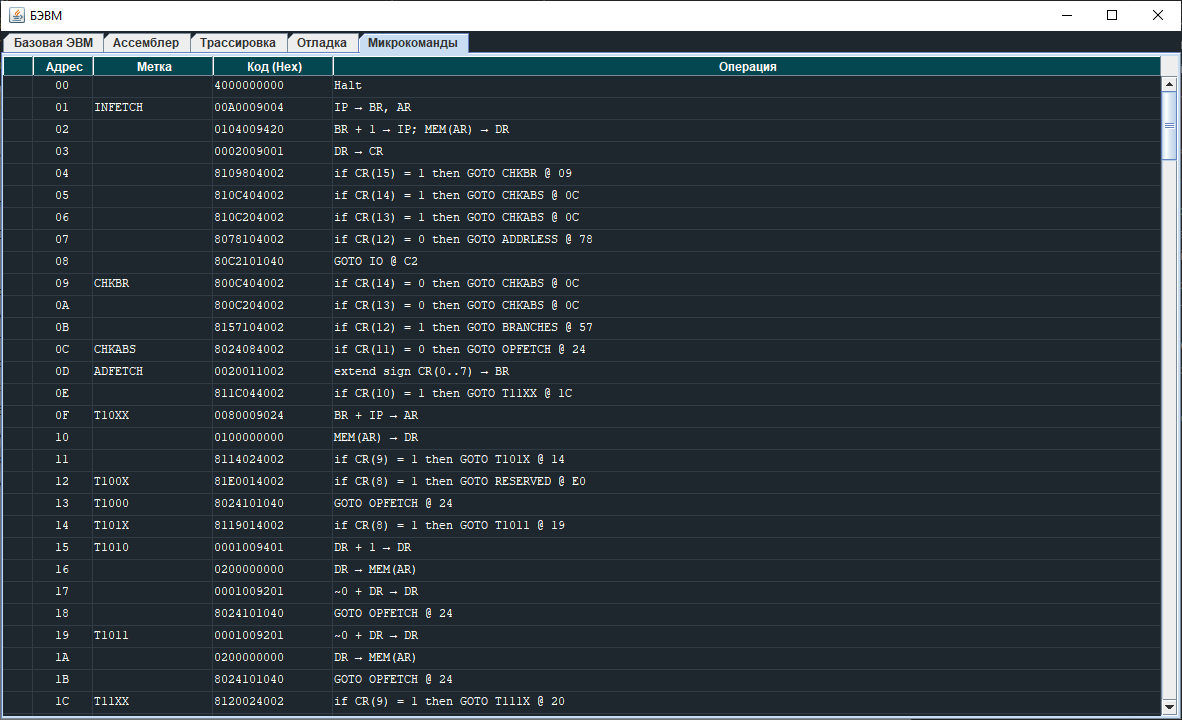
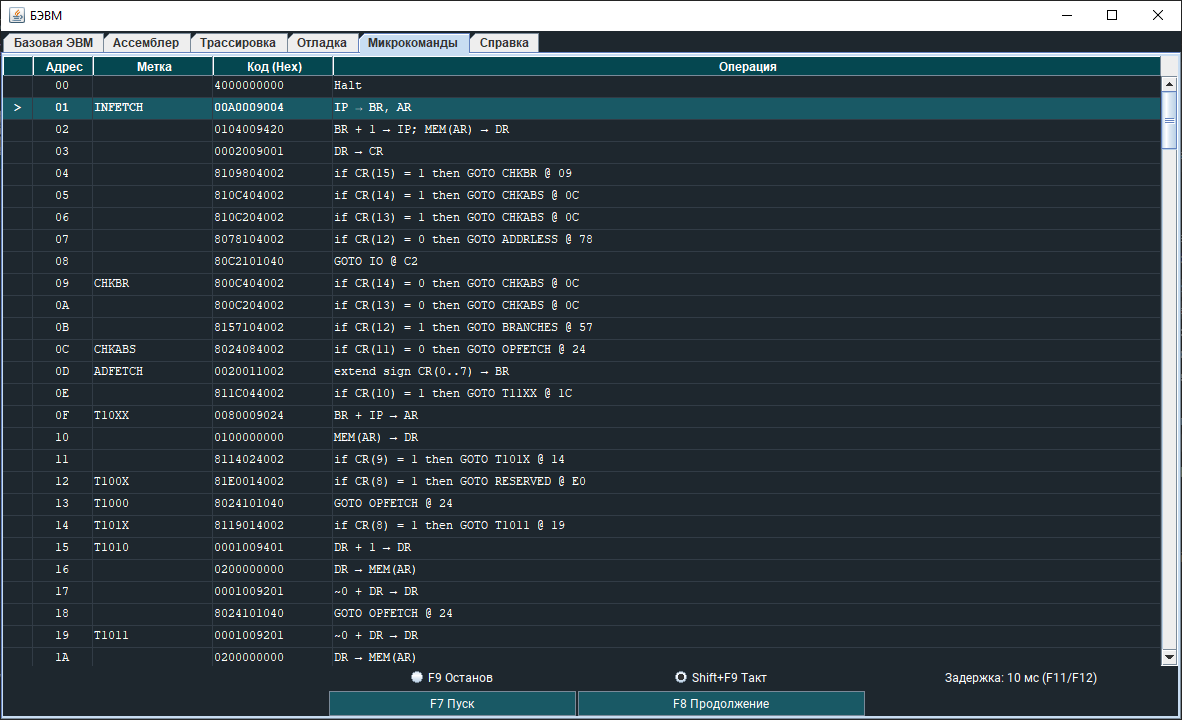
fix: images and tracing

diff --git a/bcomp-ng-ui/src/main/java/ru/ifmo/cs/bcomp/ui/components/TraceView.java b/bcomp-ng-ui/src/main/java/ru/ifmo/cs/bcomp/ui/components/TraceView.java
@@ -44,6 +44,7 @@ public class TraceView extends BCompPanel implements ActionListener {
 
     private boolean isRun = false;
     private boolean isContinue = false;
+    private boolean originalClockState = true;
 
     private String getReg(Reg reg) {
         return Utils.toHex(cpu.getRegValue(reg), cpu.getRegWidth(reg));
@@ -58,16 +59,16 @@ public class TraceView extends BCompPanel implements ActionListener {
         StringBuilder stringBuilderCsv = new StringBuilder();
         StringBuilder stringBuilder = new StringBuilder();
 
-        stringBuilder.append("Адр\t" + (cpu.getClockState() ? "Знчн" : "МК"));
-        stringBuilderCsv.append("Адр," + (cpu.getClockState() ? "Знчн" : "МК"));
+        stringBuilder.append("Адр\tЗнчн");
+        stringBuilderCsv.append("Адр,Знчн");
         for (Reg reg : printRegs) {
             int width = (int) Math.ceil(cpu.getRegWidth(reg) / 4.0);
             int l = (int) Math.ceil((width - reg.name().length()) / 2.0);
             stringBuilder.append(String.format("\t%s", reg.name()));
             stringBuilderCsv.append(String.format(",%s", reg.name()));
         }
-        stringBuilder.append("\tNZVC" + (cpu.getClockState() ? "\tАдр" + "\tЗнчн" : "\tСчМК") + "\n");
-        stringBuilderCsv.append(",NZVC" + (cpu.getClockState() ? ",Адр,Знчн" : "СчМК") + "\n");
+        stringBuilder.append("\tNZVC\tАдр\tЗнчн\n");
+        stringBuilderCsv.append(",NZVC,Адр,Знчн\n");
         printRegsTitle = false;
 
         setTrace(stringBuilder.toString());
@@ -79,13 +80,9 @@ public class TraceView extends BCompPanel implements ActionListener {
         StringBuilder stringBuilderRegsCsv = new StringBuilder();
         StringBuilder stringBuilder = new StringBuilder();
 
-        stringBuilder.append((cpu.getClockState() ? getMemory(savedPointer) + "\t"
-                : Utils.toHex(savedPointer, 8) +
-                        Utils.toHex(cpu.getMicroCode().getValue(savedPointer), 40) + "\t"));
+        stringBuilder.append(getMemory(savedPointer) + "\t");
 
-        stringBuilderRegsCsv.append((cpu.getClockState() ? getMemoryCsv(savedPointer) + ","
-                : Utils.toHex(savedPointer, 8) + "," +
-                        Utils.toHex(cpu.getMicroCode().getValue(savedPointer), 40) + ","));
+        stringBuilderRegsCsv.append(getMemoryCsv(savedPointer) + ",");
 
         for (Reg reg : printRegs) {
             stringBuilder.append(getReg(reg) + "\t");
@@ -93,10 +90,10 @@ public class TraceView extends BCompPanel implements ActionListener {
         }
 
         stringBuilder.append(Utils.toBinary(cpu.getRegValue(Reg.PS) & 0xF, 4)
-                + (cpu.getClockState() ? add : getReg(Reg.MP)) + "\n");
+                + add + "\n");
 
         stringBuilderRegsCsv.append(Utils.toBinary(cpu.getRegValue(Reg.PS) & 0xF, 4)
-                + (cpu.getClockState() ? addCsv : getReg(Reg.MP)) + "\n");
+                + addCsv + "\n");
 
         setTrace(stringBuilder.toString());
         return stringBuilderRegsCsv.toString();
@@ -136,7 +133,7 @@ public class TraceView extends BCompPanel implements ActionListener {
                 if (!printOnStop)
                     return;
                 writelist.clear();
-                savedPointer = cpu.getRegValue(cpu.getClockState() ? Reg.IP : Reg.MP);
+                savedPointer = cpu.getRegValue(Reg.IP);
                 synchronized (stringRegsCsv) {
                     stringRegsCsv.append(printRegsTitle());
                 }
@@ -286,6 +283,9 @@ public class TraceView extends BCompPanel implements ActionListener {
 
                     // Delay is managed by ComponentManager; no need to override tickFinishListener
 
+                    originalClockState = cpu.getClockState();
+                    cpu.setClockState(true);
+
                     // sleep = sleeptime;
                     new Thread(() -> {
                         cpu.startStart();
@@ -306,6 +306,7 @@ public class TraceView extends BCompPanel implements ActionListener {
                                 break;
                             }
                         }
+                        cpu.setClockState(originalClockState);
                     }).start();
 
                 } else {